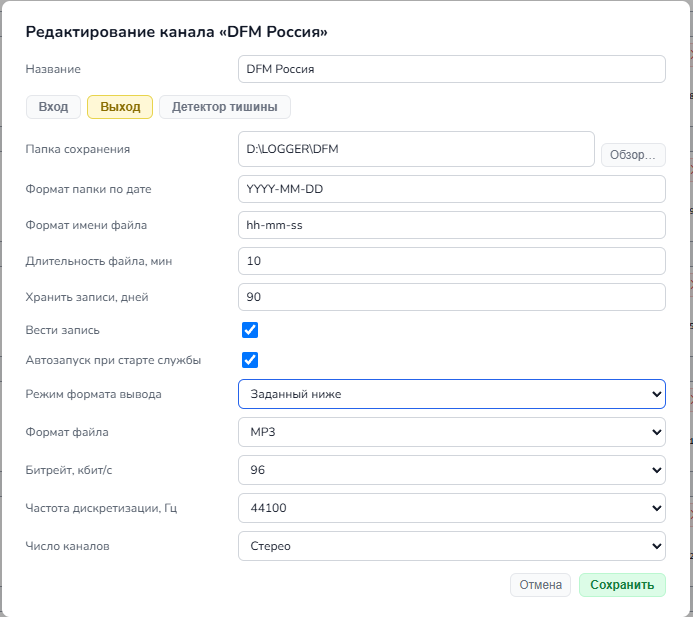
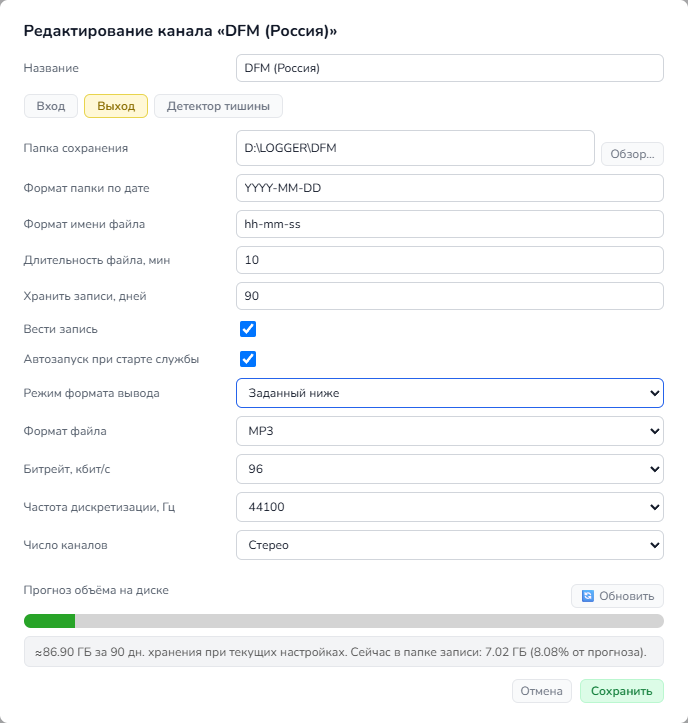
v1.00.055-056: README догнал код, фикс ложной ошибки недоступности папки сохранения, правки HOWTO.md
- 1.00.055: README.md обновлён под уже выпущенный код (Find-Replace.ps1 переехал в scripts/ и получил -Filter, иконка роли 👷/👤, длинное тире как разделитель метаданных); задокументирован в CHANGELOG ранее не описанный фикс Convert-ToApricot.ps1
- 1.00.056: ChannelEditDialog — таймаут проверки папки сохранения при нажатии «Сохранить» увеличен с 5 до 10 секунд (ложная ошибка «недоступна» на загруженном продакшн-диске, где Directory.CreateDirectory иногда не укладывался в 5 секунд)
- HOWTO.md и скриншоты вкладки «Выход»: обновлены пользователем

diff --git a/Quince.Service/VersionInfo.cs b/Quince.Service/VersionInfo.cs
@@ -2,5 +2,5 @@ namespace Quince.Service;
 
 public static class VersionInfo
 {
-    public const string Version = "1.00.054";
+    public const string Version = "1.00.056";
 }

diff --git a/README.md b/README.md
@@ -158,7 +158,7 @@ metadata_path: ''
 Реализовано в точности как в предшественнике этого проекта (десктопная версия на Python/Qt) — тот же режим определения, тот же формат хранения:
 
 `source.metadata_url` — режим, а не произвольный URL: редактируется вручную в поле «URL метаданных / режим» или подставляется кнопкой **«Определить»** в диалоге редактирования канала (см. выше):
-- `"icy"` — метаданные читаются напрямую из аудиопотока по протоколу ICY (`Icy-MetaData: 1`, блок `StreamTitle='Artist - Title'`); используется для `stream_type: icecast`/`icecast_mp3`. Разрыв ЭТОГО отдельного метаданных-соединения не приводит к остановке канала — переподключение с нарастающей паузой (1, 2, 4, 8, 16, 30 с), независимо от паузы/предела попыток самого аудиопотока (см. «Настройки приложения» ниже).
+- `"icy"` — метаданные читаются напрямую из аудиопотока по протоколу ICY (`Icy-MetaData: 1`, блок `StreamTitle='Artist - Title'` — разделитель «-» или «—», оба распознаются одинаково); используется для `stream_type: icecast`/`icecast_mp3`. Разрыв ЭТОГО отдельного метаданных-соединения не приводит к остановке канала — переподключение с нарастающей паузой (1, 2, 4, 8, 16, 30 с), независимо от паузы/предела попыток самого аудиопотока (см. «Настройки приложения» ниже).
 - любое другое непустое значение — режим метаданных HLS, и одновременно сам сохранённый JSON-эндпоинт (найденный ранее кнопкой «Определить»): при старте канала он пробуется первым напрямую, без повторного перебора кандидатов — это важно, когда JSON-эндпоинт живёт не в той же папке, что плейлист (например у станции путь плейлиста и путь метаданных используют разные числовые id потока). Только если этот URL не откликнулся (сменился/недоступен), эндпоинт заново определяется перебором кандидатов (`{папка_плейлиста}/metadata.json?format=fmgid&subformat=small`, `{папка_плейлиста}/metadata.json`, `/metadata.json` в корне хоста; распознаются форматы `{"fmgid": {...}}`, плоские поля `title`/`name`/`song`/`artist`, либо строка вида `"Артист - Трек"` в полях `now_playing`/`current`/`stream_title`); найденный (тем или другим способом) эндпоинт опрашивается раз в 5 секунд. Перебор кандидатов повторяется до 3 раз с паузой 3 с (чтобы разовая сетевая заминка при старте не отправила канал в резерв навсегда), и только если ни одна из попыток не откликнулась — делается одна попытка вытащить ID3-теги (`title`/`artist`) прямо из потока через бандлированный `ffprobe.exe` — без повторов.
 - `""` (по умолчанию) — метаданные не собираются.
 
@@ -284,7 +284,7 @@ lockout:
 ```
 Считаются попытки и для локального входа, и для LDAP — оба способа проверки идут через один и тот же счётчик. Каждая неудачная попытка входа пишется в лог (`[WARNING] Вход не удался: пользователь=... причина=... ip=...`), а каждое срабатывание самой блокировки — логина или IP — отдельной строкой уровня `WARNING`. Счётчики хранятся только в памяти (не переживают перезапуск службы, в отличие от сеансов) и обнуляются при успешном входе. Блокировка возвращает `HTTP 429` вместо обычного `401`, чтобы страница входа могла показать её отдельно от «неверный пароль».
 
-**Права администратора (`is_admin`/`admin_groups`).** Если авторизация вообще не настроена (нет `config/ldap.yaml`), приложение работает как раньше — полный доступ у всех, без каких-либо ограничений. Если авторизация включена, то вошедшему пользователю БЕЗ прав администратора (не `is_admin: true` в `users.yaml` и не член ни одной из `admin_groups`) в интерфейсе не показываются: пункты бургер-меню «➕ Новый канал», «▶/⏹ Запустить/остановить запись всех каналов», «☑ Массовое изменение», «🔄 Обновить конфигурацию», «⚙ Настройки…» и «📈 Монитор ресурсов…», а на карточках каналов — кнопки Старт/Стоп записи, «✎ Редактировать», «⧉ Клонировать» и «✕ Удалить». Прослушивание канала в браузере (▶ рядом со Старт/Стоп) и просмотр индикаторов уровня (📊) остаются доступны всем вошедшим пользователям независимо от прав — это просмотр, а не управление. Переключение темы/языка/компактного режима/шкал уровня в карточках тоже не считается управлением и доступно всем.
+**Права администратора (`is_admin`/`admin_groups`).** Если авторизация вообще не настроена (нет `config/ldap.yaml`), приложение работает как раньше — полный доступ у всех, без каких-либо ограничений. Если авторизация включена, то вошедшему пользователю БЕЗ прав администратора (не `is_admin: true` в `users.yaml` и не член ни одной из `admin_groups`) в интерфейсе не показываются: пункты бургер-меню «➕ Новый канал», «▶/⏹ Запустить/остановить запись всех каналов», «☑ Массовое изменение», «🔄 Обновить конфигурацию», «⚙ Настройки…» и «📈 Монитор ресурсов…», а на карточках каналов — кнопки Старт/Стоп записи, «✎ Редактировать», «⧉ Клонировать» и «✕ Удалить». Прослушивание канала в браузере (▶ рядом со Старт/Стоп) и просмотр индикаторов уровня (📊) остаются доступны всем вошедшим пользователям независимо от прав — это просмотр, а не управление. Переключение темы/языка/компактного режима/шкал уровня в карточках тоже не считается управлением и доступно всем. Рядом с именем вошедшего пользователя в бургер-меню — иконка роли: 👷 для администратора, 👤 для обычного пользователя (только визуальная подсказка, на права не влияет).
 
 **📈 Монитор ресурсов** (пункт бургер-меню, только для администраторов) открывает окно с автообновляемой (раз в 2 секунды) таблицей: сколько процессорного времени (%) и памяти (МБ) занимают основной процесс `Quince.Service.exe` и каждый ffmpeg-подпроцесс каждого запущенного канала (отдельно захват потока и запись в файл, если оба идут одновременно) — с итоговой строкой по всем процессам сразу.
 
@@ -308,14 +308,6 @@ lockout:
 Захват со звуковой карты (`SoundcardCapture`) реализован через [NAudio](https://github.com/naudio/NAudio) (MIT — свободное использование, включая коммерческое, без каких-либо оговорок) поверх WASAPI; отдельного нативного файла для этого не требуется — NAudio подключается как обычный NuGet-пакет и попадает в сборку вместе с остальными управляемыми зависимостями.
 
 Обновление/замена `ffmpeg.exe`/`ffprobe.exe` — просто перезапись файла тем же именем в той же папке (оба подключаются по пути, а не встраиваются в сборку .NET), рестарт приложения подхватит новую версию.
-
-**`tools/Find-Replace.ps1`** — рекурсивный поиск-замена литерального текста (не regex) во всех файлах папки. Кодировка каждого файла определяется автоматически по BOM (или UTF-8 без BOM по умолчанию) и сохраняется при записи; двоичные файлы (обнаружен нулевой байт) пропускаются, чтобы не повредить их. Поддерживает стандартные `-WhatIf`/`-Confirm` для предпросмотра без реальной записи.
-```powershell
-.\tools\Find-Replace.ps1 -Find 'localhost:5000' -Replace 'localhost:8080' -Path C:\Quince\config
-
-# Предпросмотр без изменения файлов
-.\tools\Find-Replace.ps1 -Find 'старое' -Replace 'новое' -Path .\config -WhatIf
-```
 
 ## Вспомогательные скрипты (`Quince.Service/scripts/`)
 
@@ -344,6 +336,14 @@ lockout:
   ```
   `-InputDir` понимает и полный путь, и путь, введённый относительно текущей папки, — а если такого пути там нет, скрипт дополнительно пробует относительно своей собственной папки и относительно её родителя (это покрывает типичный случай, когда `config\` лежит рядом со `scripts\`, как в этом репозитории, — просто `-InputDir config` срабатывает независимо от того, откуда запущен скрипт). `-OutputDir` по умолчанию — `<InputDir>\apricot_export`. `-GroupId`/`-GroupName` — верхнеуровневые `id`/`name` итогового файла станций (по умолчанию — имя папки `-InputDir`). Результат: один файл `stations/<GroupId>.yaml` с массивом `channels:` — по одному элементу на каждый канал (SMB-путь и хост экспортируются с плейсхолдерами `LOGGER-HOST`/`LOGGER`, требуют ручной правки), и для каждого канала с настроенными метаданными — отдельный файл в `playlogs/<id>.yaml` (маппинг на CSV-колонки Айвы: `EventTime`/`ElemName`/`ElemArtist`/`ElemClass`).
 
+- **`Find-Replace.ps1`** — рекурсивный поиск-замена литерального текста (не regex) во всех файлах папки. Кодировка каждого файла определяется автоматически по BOM (или UTF-8 без BOM по умолчанию) и сохраняется при записи; двоичные файлы (обнаружен нулевой байт) пропускаются, чтобы не повредить их. Необязательный `-Filter` (маска имени файла, по умолчанию `*` — все файлы, как `Get-ChildItem -Filter`) сужает поиск, например до `*.csv`, — файлы, не подходящие под маску, не читаются и не трогаются. Поддерживает стандартные `-WhatIf`/`-Confirm` для предпросмотра без реальной записи.
+  ```powershell
+  .\scripts\Find-Replace.ps1 -Find 'localhost:5000' -Replace 'localhost:8080' -Path C:\Quince\config
+
+  # Только в CSV, предпросмотр без изменения файлов
+  .\scripts\Find-Replace.ps1 -Find '—' -Replace '-' -Path \\logger-host\LOGGER -Filter *.csv -WhatIf
+  ```
+
 - **`MOSCOW.md`** — не скрипт, а результат работы `Import-RadioPlayerStations.ps1`: таблица-справочник по московским станциям radioplayer.ru, используется как источник данных при добавлении новых каналов вручную.
 
 ## Известные ограничения (по состоянию на 1.00.008)
@@ -364,6 +364,7 @@ Quince.Service/
   config.demo/       — те же файлы с примерами/заглушками и подробными комментариями — шаблон для первого запуска на новой машине, в git (копируется в выходную папку сборки)
   i18n/              — тексты интерфейса ru.json/en.json (копируются в выходную папку сборки)
   redist/ucrt/       — Universal CRT app-local DLL для Windows без встроенной UCRT (копируются в выходную папку сборки)
-  tools/             — ffmpeg.exe, ffprobe.exe, service-*.bat, Find-Replace.ps1 (копируются в выходную папку сборки)
+  scripts/           — вспомогательные PowerShell-скрипты для разового/периодического обслуживания (см. «Вспомогательные скрипты» выше), НЕ копируются в выходную папку сборки
+  tools/             — ffmpeg.exe, ffprobe.exe, service-*.bat (копируются в выходную папку сборки)
   wwwroot/           — статика: стили, шрифты, иконка
 ```

diff --git a/docs/CHANGELOG.md b/docs/CHANGELOG.md
@@ -2,6 +2,15 @@
 
 Формат версии: `X.YY.ZZZ`. Патч (`ZZZ`) увеличивается на 1 при каждой доработке; старшие номера (`X`, `YY`) меняются только по явной команде пользователя.
 
+## 1.00.056 — фикс ложной ошибки «Папка сохранения записей недоступна» при сохранении канала
+
+- `Pages/Shared/ChannelEditDialog.razor` (`ValidateSavePathAsync`, вызывается при нажатии «Сохранить»): таймаут ожидания `Directory.CreateDirectory` увеличен с 5 до 10 секунд. Подтверждено вживую (`\\EMG-LOGGER3\C$\Quince`, канал DFM, путь `D:\LOGGER\DFM`): при сохранении канала — «Папка сохранения записей недоступна: превышено время ожидания», хотя папка полностью доступна — соседняя проверка «Прогноз объёма на диске» → «Обновить» (`RefreshDiskUsageAsync`, тот же путь, но таймаут 8с) отрабатывала нормально сразу после. На загруженном продакшн-диске одиночный вызов `Directory.CreateDirectory` иногда занимает больше 5 секунд, оставаясь при этом полностью исправным — 5-секундный бюджет был просто теснее, чем нужно для этого сервера. Новый таймаут (10с) даёт больше запаса, чем уже доказавший себя 8-секундный бюджет соседней проверки.
+
+## 1.00.055 — документация: README догнал код (Find-Replace.ps1, иконка роли, длинное тире), задокументирован необнаруженный ранее фикс Convert-ToApricot.ps1
+
+- `README.md` отставал от уже выпущенного кода в трёх местах: раздел «Сторонние бинарные компоненты» всё ещё описывал `Find-Replace.ps1` как лежащий в `tools/` (он переехал в `scripts/` до 1.00.054) и не упоминал новый параметр `-Filter` — блок перенесён в «Вспомогательные скрипты» вместе с остальными PowerShell-утилитами, с примером `-Filter *.csv`; дерево структуры проекта в самом низу README тоже поправлено (`Find-Replace.ps1` убран из списка содержимого `tools/`, добавлена отдельная строка `scripts/`, которая не копируется в выходную папку сборки, в отличие от `tools/`). Раздел «Права администратора» дополнен одной фразой про иконку роли (👷/👤) рядом с именем пользователя в бургер-меню — сейчас была видна в коде, но нигде не описана. Описание ICY-формата `StreamTitle='Artist - Title'` дополнено уточнением, что разделителем распознаётся и «-», и «—» (см. 1.00.054).
+- Заодно найден при аудите (не создан в этой версии): `scripts/Convert-ToApricot.ps1` содержит правки без единой строки в `CHANGELOG.md`/`HISTORY.md` — уже закоммичены (`58051ea`), но появились раньше этой сессии, исходный запрос пользователя неизвестен, восстанавливать его дословно для `HISTORY.md` не стал. Сами правки, видны из кода: `ConvertFrom-YamlSimple` больше не путает явно заквоченную пустую строку (`metadata_url: ''`) с заголовком вложенного блока — решение принимается по сырому (ещё не «расквоченному») значению; `Format-YamlString` экранирует обратный слэш (`\` → `\\`) перед кавычками, а не только сами кавычки; итоговый `id` канала для «Абрикоса» больше не тащит хвостовой уточнитель города/страны из имени («Business FM (Россия)» → `business_fm`, не `business_fm_rossiya`); частота дискретизации теперь берётся из `output_format` (что реально пишется на диск), а `input_format` — только запасной вариант, раньше было наоборот.
+
 ## 1.00.054 — разделитель «исполнитель — трек» принимает длинное тире, параметр -Filter в Find-Replace.ps1
 
 - `Audio/IcecastMetadataReader.cs` (`ArtistTitleRegex`): распознавание разделителя «Artist - Title» расширено на длинное тире («Artist — Title»), не только обычный дефис — некоторые источники присылают его именно так, и такая строка целиком попадала в `ElemName` вместо разбивки на `ElemArtist`/`ElemName`. Сама программа при объединении артиста и трека всегда использовала (и продолжает использовать) обычный дефис — `ChannelEngine.cs` (лог «Метаданные:») и `HlsMetadataReader.FireIfChanged`. Два новых теста: разбивка по длинному тире и — отдельно — что длинное тире ВНУТРИ самого названия трека (не как разделитель) не ломает разбор, когда рядом есть настоящий разделитель-дефис.
